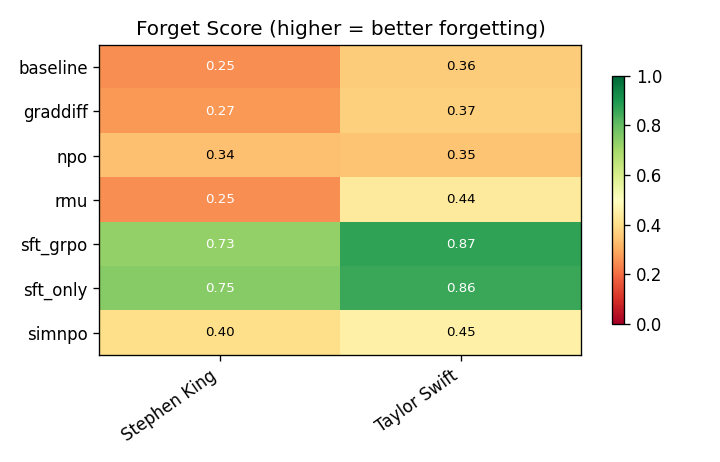
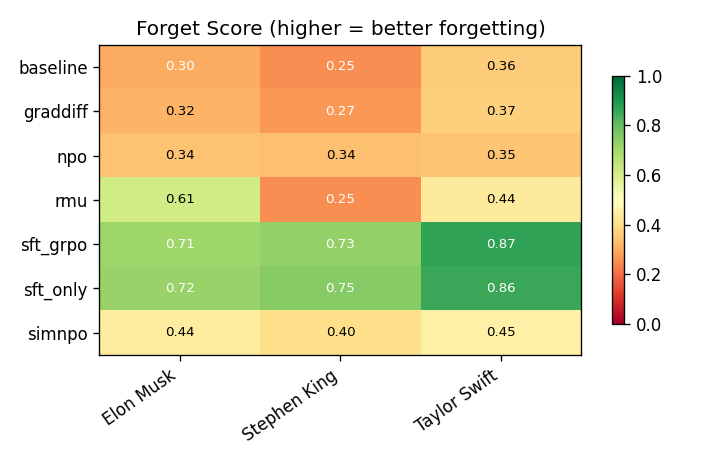
report: EM complete — 21 rows (3/10 entities)

diff --git a/results/summary.md b/results/summary.md
@@ -1,13 +1,14 @@
 # Unlearning Matrix — Results
 
-- total runs: **14**
+- total runs: **21**
 - methods: baseline, graddiff, npo, rmu, sft_grpo, sft_only, simnpo
-- entities: Stephen King, Taylor Swift
+- entities: Elon Musk, Stephen King, Taylor Swift
 
 ## Forget Score (combined, higher = better forgetting)
 
 | subject | baseline | graddiff | npo | rmu | sft_grpo | sft_only | simnpo |
 |---|---|---|---|---|---|---|---|
+| Elon Musk | 0.300 | 0.316 | 0.343 | 0.615 | 0.710 | 0.722 | 0.438 |
 | Stephen King | 0.253 | 0.269 | 0.337 | 0.253 | 0.728 | 0.749 | 0.402 |
 | Taylor Swift | 0.361 | 0.369 | 0.347 | 0.436 | 0.870 | 0.857 | 0.453 |
 
@@ -15,6 +16,7 @@
 
 | subject | baseline | graddiff | npo | rmu | sft_grpo | sft_only | simnpo |
 |---|---|---|---|---|---|---|---|
+| Elon Musk | 0.750 | 0.750 | 0.733 | 0.733 | 0.242 | 0.250 | 0.700 |
 | Stephen King | 0.740 | 0.729 | 0.750 | 0.729 | 0.333 | 0.302 | 0.719 |
 | Taylor Swift | 0.750 | 0.717 | 0.733 | 0.742 | 0.367 | 0.358 | 0.692 |
 
@@ -22,10 +24,10 @@
 
 | method | avg FS | avg utility | avg ARR | avg KLR | n |
 |---|---|---|---|---|---|
-| baseline | 0.307 | 0.745 | 0.470 | 0.916 | 2 |
-| graddiff | 0.319 | 0.723 | 0.455 | 0.907 | 2 |
-| npo | 0.342 | 0.742 | 0.389 | 0.927 | 2 |
-| rmu | 0.345 | 0.735 | 0.412 | 0.899 | 2 |
-| sft_grpo | 0.799 | 0.350 | 0.219 | 0.183 | 2 |
-| sft_only | 0.803 | 0.330 | 0.202 | 0.191 | 2 |
-| simnpo | 0.428 | 0.705 | 0.238 | 0.907 | 2 |
+| baseline | 0.305 | 0.747 | 0.514 | 0.877 | 3 |
+| graddiff | 0.318 | 0.732 | 0.490 | 0.874 | 3 |
+| npo | 0.342 | 0.739 | 0.404 | 0.911 | 3 |
+| rmu | 0.435 | 0.735 | 0.322 | 0.809 | 3 |
+| sft_grpo | 0.769 | 0.314 | 0.216 | 0.245 | 3 |
+| sft_only | 0.776 | 0.303 | 0.197 | 0.251 | 3 |
+| simnpo | 0.431 | 0.704 | 0.242 | 0.895 | 3 |
